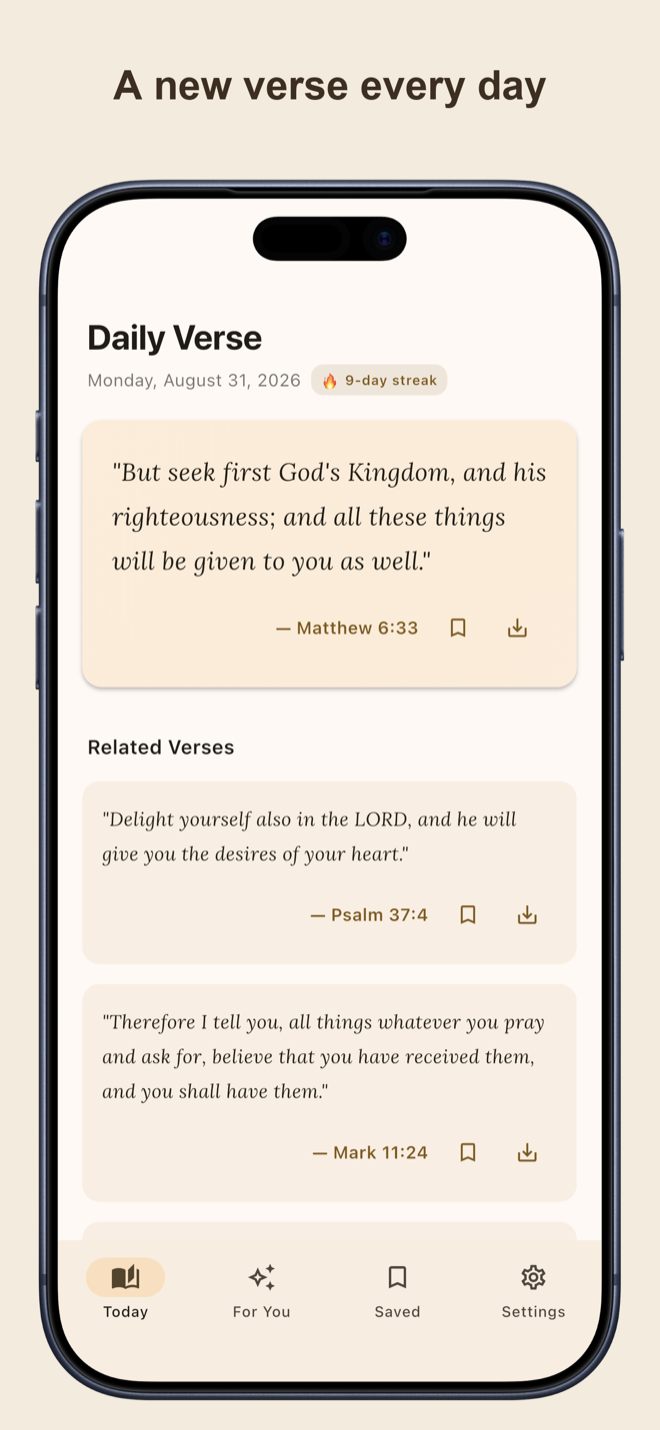
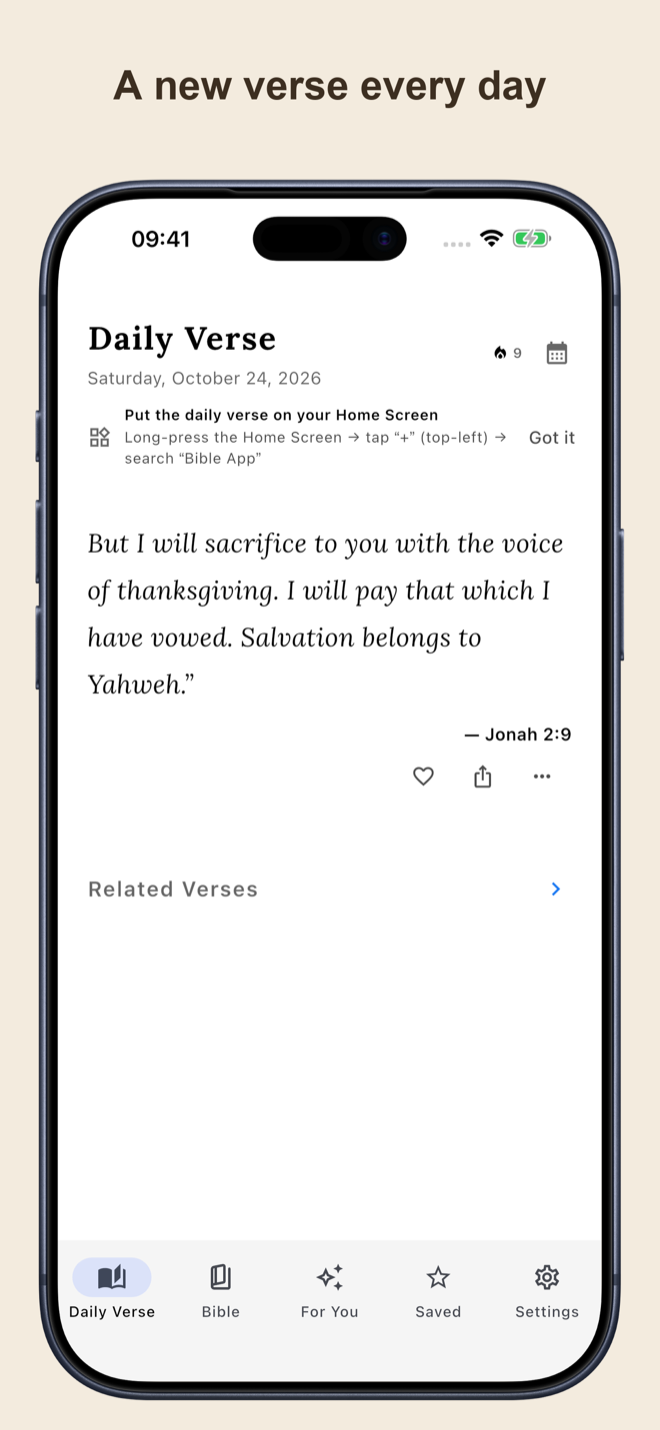
对外内容跟上 1.0.2:四页旧名(Bible Reply/圣经有云)全量换新名(Bible App: AI Search & Chat/中文圣经:AI查经、读经、祷告);营销页换 10-08 晨光十字图标+10-24 九张三语截图(en/zh 各 9,读经画面上页)+lazy load;trust 文案对齐隐私政策新口径(无第三方分析/圣经含 KJV);support 免费清单补阅读器

diff --git a/app.html b/app.html
@@ -3,7 +3,7 @@
 <head>
     <meta charset="UTF-8">
     <meta name="viewport" content="width=device-width, initial-scale=1.0">
-    <title>Bible Reply &amp; Daily Study — Daily Bible verse &amp; AI devotional</title>
+    <title>Bible App: AI Search &amp; Chat — Daily Bible verse &amp; AI devotional</title>
     <style>
         * { margin: 0; padding: 0; box-sizing: border-box; }
         body { font-family: -apple-system, BlinkMacSystemFont, 'Segoe UI', Roboto, sans-serif; color: #333; line-height: 1.7; background: #faf8f5; }
@@ -44,9 +44,9 @@
 
     <!-- ① Hero (copy: onboarding welcome page slogans) -->
     <div class="hero">
-      <img class="app-icon" src="img/app_icon.png" alt="Bible Reply app icon">
+      <img class="app-icon" src="img/app_icon.png" alt="Bible App: AI Search & Chat app icon">
       <div>
-        <h1>Bible Reply &amp; Daily Study</h1>
+        <h1>Bible App: AI Search &amp; Chat</h1>
         <p class="tagline">Ask, and the Bible may answer.</p>
         <p class="sub">Let Scripture meet you every day.</p>
       </div>
@@ -54,8 +54,14 @@
     <a class="cta" href="https://apps.apple.com/app/id6781559150">⬇ Free Download · 7-Day AI Devotional Trial</a>
     <div class="shots">
         <img src="img/en_01_today.png" alt="Today's verse">
-        <img src="img/en_02_for_you.png" alt="Write what's on your mind">
-        <img src="img/en_03_devotional_result.png" alt="A complete devotional">
+        <img src="img/en_02_reader.png" alt="The whole-Bible reader" loading="lazy">
+        <img src="img/en_03_for_you.png" alt="Write what's on your mind" loading="lazy">
+        <img src="img/en_04_devotional_result.png" alt="A complete devotional" loading="lazy">
+        <img src="img/en_05_verse_share.png" alt="Share a verse" loading="lazy">
+        <img src="img/en_06_devotional_share.png" alt="Share a devotional" loading="lazy">
+        <img src="img/en_07_saved.png" alt="Saved verses" loading="lazy">
+        <img src="img/en_08_settings.png" alt="Settings" loading="lazy">
+        <img src="img/en_09_today_dark.png" alt="Today, in dark mode" loading="lazy">
     </div>
     <video controls preload="none" poster="img/en_01_today.png">
         <source src="preview_en.m4v" type="video/mp4">
@@ -73,8 +79,8 @@
     <!-- ④ Trust -->
     <h2>Built to be trusted</h2>
     <div class="card">
-        <p><strong>Privacy-first by design.</strong> No ads, no analytics SDKs, no trackers. Sign-in is optional and uses an anonymous identifier — never your email or name. AI input is processed in the EU and kept only in your deletable devotional history. See the <a href="./">Privacy Policy</a>.</p>
-        <p><strong>AI never fabricates scripture.</strong> Verse text is always looked up from the built-in public-domain Bible (CUV 1919 + WEB, 31,091 verses) — never recalled from AI memory.</p>
+        <p><strong>Privacy-first by design.</strong> No ads, no third-party analytics, no trackers. Sign-in is optional and uses an anonymous identifier — never your email or name. AI input is processed in the EU and kept only in your deletable devotional history. See the <a href="./">Privacy Policy</a>.</p>
+        <p><strong>AI never fabricates scripture.</strong> Verse text is always looked up from the built-in public-domain Bible (CUV 1919 + WEB + KJV, 31,091 verses) — never recalled from AI memory.</p>
         <p><strong>Crisis-safe.</strong> If you share thoughts of self-harm, the app responds with vetted help resources instead of generated content.</p>
     </div>
 
@@ -115,9 +121,9 @@
     </div>
 
     <div class="hero" id="zh">
-      <img class="app-icon" src="img/app_icon.png" alt="圣经有云 App 图标">
+      <img class="app-icon" src="img/app_icon.png" alt="中文圣经 App 图标">
       <div>
-        <h2 style="border-bottom: none; margin-top: 0;">中文介绍 · 圣经有云-每日灵修</h2>
+        <h2 style="border-bottom: none; margin-top: 0;">中文介绍 · 中文圣经：AI查经、读经、祷告</h2>
         <p class="tagline">你的问题，圣经里或许有答案。</p>
         <p class="sub">把圣经，放进你的每一天。</p>
       </div>
@@ -125,8 +131,14 @@
     <a class="cta" href="https://apps.apple.com/app/id6781559150">⬇ 免费下载 · 7 天试用 AI 灵修</a>
     <div class="shots">
         <img src="img/zh_01_today.png" alt="今日经文">
-        <img src="img/zh_02_for_you.png" alt="写下近况">
-        <img src="img/zh_03_devotional_result.png" alt="完整灵修">
+        <img src="img/zh_02_reader.png" alt="整本圣经阅读器" loading="lazy">
+        <img src="img/zh_03_for_you.png" alt="写下近况" loading="lazy">
+        <img src="img/zh_04_devotional_result.png" alt="完整灵修" loading="lazy">
+        <img src="img/zh_05_verse_share.png" alt="分享经文" loading="lazy">
+        <img src="img/zh_06_devotional_share.png" alt="分享灵修" loading="lazy">
+        <img src="img/zh_07_saved.png" alt="经文收藏" loading="lazy">
+        <img src="img/zh_08_settings.png" alt="设置" loading="lazy">
+        <img src="img/zh_09_today_dark.png" alt="今日（深色模式）" loading="lazy">
     </div>
     <video controls preload="none" poster="img/zh_01_today.png">
         <source src="preview_zh.m4v" type="video/mp4">
@@ -142,8 +154,8 @@
 
     <h2>值得托付</h2>
     <div class="card">
-        <p><strong>隐私优先。</strong>无广告、无分析 SDK、无追踪。登录可选,且只使用匿名标识——绝不需要你的邮箱或姓名。AI 输入在欧盟处理;仅保存于你账号下可随时删除的灵修历史。详见<a href="./">隐私政策</a>。</p>
-        <p><strong>AI 不伪造经文。</strong>经文正文永远由内置的公有领域圣经(和合本 1919 + 英文 WEB,31,091 节)按出处取出,绝不靠 AI 记忆复述。</p>
+        <p><strong>隐私优先。</strong>无广告、无第三方分析、无追踪。登录可选,且只使用匿名标识——绝不需要你的邮箱或姓名。AI 输入在欧盟处理;仅保存于你账号下可随时删除的灵修历史。详见<a href="./">隐私政策</a>。</p>
+        <p><strong>AI 不伪造经文。</strong>经文正文永远由内置的公有领域圣经(和合本 1919 + 英文 WEB + KJV,31,091 节)按出处取出,绝不靠 AI 记忆复述。</p>
         <p><strong>危机安全。</strong>若你写下自伤的念头,App 会回应经过审核的帮助资源,而不是生成内容。</p>
     </div>
 

diff --git a/support.html b/support.html
@@ -3,7 +3,7 @@
 <head>
     <meta charset="UTF-8">
     <meta name="viewport" content="width=device-width, initial-scale=1.0">
-    <title>Bible Reply - Support</title>
+    <title>Bible App: AI Search &amp; Chat - Support</title>
     <style>
         * { margin: 0; padding: 0; box-sizing: border-box; }
         body { font-family: -apple-system, BlinkMacSystemFont, 'Segoe UI', Roboto, sans-serif; color: #333; line-height: 1.7; background: #faf8f5; }
@@ -21,7 +21,7 @@
 </head>
 <body>
 <div class="container">
-    <h1>Bible Reply — Support · 支持中心</h1>
+    <h1>Bible App: AI Search &amp; Chat — Support · 支持中心</h1>
     <p class="lang">English below · <a href="#zh">中文完整版见下方</a></p>
 
     <!-- ==================== English (complete, standalone) ==================== -->
@@ -39,12 +39,12 @@
         <li><strong>How am I billed?</strong> Your subscription auto-renews at the selected plan unless you cancel at least 24 hours before the current period ends.</li>
         <li><strong>How do I cancel?</strong> Subscriptions are managed by Apple: device Settings → [your name] → Subscriptions, or the App Store app → profile → Subscriptions. Cancel anytime — it takes effect from the next period.</li>
         <li><strong>Does it work on a new device?</strong> Yes. Your subscription is tied to your Apple ID — open the app on the new device and tap "Restore Purchases" (app Settings → Subscription → Restore Purchases, or the Restore link at the bottom of the paywall).</li>
-        <li><strong>Can I keep using it without subscribing?</strong> Yes. The daily verse, home widget, and bookmarks are free forever, no subscription needed.</li>
+        <li><strong>Can I keep using it without subscribing?</strong> Yes. The daily verse, the whole-Bible reader with read-aloud, home widget, and bookmarks are free forever, no subscription needed.</li>
     </ul>
 
     <h3>App &amp; privacy</h3>
     <ul>
-        <li><strong>Can the AI make up or distort scripture?</strong> No. The AI only picks the verse reference and writes the reflection and prayer; the verse text itself is always looked up from the bundled public-domain Bible (Chinese Union Version 1919 + World English Bible, 31,091 verses), so scripture cannot be fabricated. Devotionals are for encouragement only, not authoritative teaching.</li>
+        <li><strong>Can the AI make up or distort scripture?</strong> No. The AI only picks the verse reference and writes the reflection and prayer; the verse text itself is always looked up from the bundled public-domain Bible (Chinese Union Version 1919 + World English Bible + KJV, 31,091 verses), so scripture cannot be fabricated. Devotionals are for encouragement only, not authoritative teaching.</li>
         <li><strong>What happens to what I write?</strong> Your input is used solely to generate that devotional — never for AI training. It lives only in your in-app devotional history and can be deleted anytime.</li>
         <li><strong>What if I hit the 30/day limit?</strong> Generation pauses for the rest of the day and resumes the next day. 30/day is far beyond typical use.</li>
         <li><strong>Revoke AI data-use consent</strong> — Open the app → Settings → Data &amp; Privacy → AI Data Use, then tap "Revoke Consent".</li>
@@ -75,12 +75,12 @@
         <li><strong>订阅如何扣费？</strong> 订阅按所选方案从你的 Apple ID 自动续费，除非在当前周期结束前至少 24 小时取消。</li>
         <li><strong>如何取消？</strong> 订阅由 Apple 管理：设备「设置 → 你的姓名 → 订阅」，或 App Store → 头像 → 订阅。随时取消，下一周期起生效。</li>
         <li><strong>换设备还能用吗？</strong> 可以。订阅绑定你的 Apple ID，在新设备打开 App，点「恢复购买」（App 设置 → 订阅 → 恢复购买，或订阅页底部的「恢复购买」链接）即可。</li>
-        <li><strong>不订阅还能用吗？</strong> 可以。每日经文、桌面小组件与经文收藏永久免费，无需订阅。</li>
+        <li><strong>不订阅还能用吗？</strong> 可以。每日经文、整本圣经阅读器（含朗读）、桌面小组件与经文收藏永久免费，无需订阅。</li>
     </ul>
 
     <h3>App 与隐私</h3>
     <ul>
-        <li><strong>AI 会不会编造或曲解经文？</strong> 不会。AI 只选出经文出处并撰写解读与祷告；经文正文永远由内置的公有领域圣经（和合本 1919 + 英文 WEB，31,091 节）按出处取出，AI 无法伪造经文。灵修内容仅供鼓励参考，不构成权威解经。</li>
+        <li><strong>AI 会不会编造或曲解经文？</strong> 不会。AI 只选出经文出处并撰写解读与祷告；经文正文永远由内置的公有领域圣经（和合本 1919 + 英文 WEB + KJV，31,091 节）按出处取出，AI 无法伪造经文。灵修内容仅供鼓励参考，不构成权威解经。</li>
         <li><strong>我写下的心事会被如何处理？</strong> 你的输入仅用于为你生成当次灵修，不用于 AI 训练；只保存在你 App 内的灵修历史中，可随时删除。</li>
         <li><strong>每天最多 30 次，用完了怎么办？</strong> 当天到达上限后暂停生成，次日自动恢复。30 次/天远超日常所需。</li>
         <li><strong>撤回 AI 数据使用同意</strong>：打开 App → 设置 → 数据与隐私 → AI 数据使用，点「撤回同意」。</li>

diff --git a/terms.html b/terms.html
@@ -22,11 +22,11 @@
     <p class="updated">Last updated: August 28, 2026</p>
 
     <h2>1. Acceptance of Terms &amp; Eligibility</h2>
-    <p>By downloading and using Bible Reply ("the App"), you agree to these Terms of Service. If you do not agree, please do not use the App.</p>
+    <p>By downloading and using Bible App: AI Search &amp; Chat ("the App"), you agree to these Terms of Service. If you do not agree, please do not use the App.</p>
     <p>You must be at least 18 years old to use the App. The App is not directed to minors, and we do not knowingly collect personal data from anyone under 18; if you believe anyone under 18 has provided personal data, contact us and we will delete it.</p>
 
     <h2>2. Description of Service</h2>
-    <p>Bible Reply provides daily Bible verses and AI-generated devotional content for personal encouragement and spiritual reflection. The App is available in English and Chinese.</p>
+    <p>Bible App: AI Search &amp; Chat provides daily Bible verses and AI-generated devotional content for personal encouragement and spiritual reflection. The App is available in English and Chinese (Simplified and Traditional).</p>
 
     <h2>3. AI-Generated Content</h2>
     <ul>
@@ -50,7 +50,7 @@
 
     <h2>5. Intellectual Property</h2>
     <ul>
-        <li>The App's design, code, and original content are owned by Bible Reply.</li>
+        <li>The App's design, code, and original content are owned by Bible App: AI Search &amp; Chat.</li>
         <li>Bible verses are sourced from public domain translations (World English Bible and Chinese Union Version 1919).</li>
         <li>You may share devotional content for personal, non-commercial purposes.</li>
     </ul>
@@ -78,10 +78,10 @@
     <p>The App is provided "as is" and "as available," without warranties of any kind, either express or implied. We do not warrant that the App will be uninterrupted, error-free, secure, or free of harmful components, or that any defects will be corrected. No advice or information obtained from the App creates any warranty not expressly stated in these Terms.</p>
 
     <h2>11. Limitation of Liability</h2>
-    <p>To the fullest extent permitted by law, Bible Reply shall not be liable for any indirect, incidental, special, consequential, or punitive damages arising from your use of, or inability to use, the App. Our total aggregate liability for any claim arising out of or relating to these Terms or the App shall not exceed the greater of: (a) the amounts you have paid us for the App in the twelve (12) months preceding the claim; or (b) USD $100. The foregoing limitations apply even if a remedy fails of its essential purpose, to the extent permitted by law.</p>
+    <p>To the fullest extent permitted by law, Bible App: AI Search &amp; Chat shall not be liable for any indirect, incidental, special, consequential, or punitive damages arising from your use of, or inability to use, the App. Our total aggregate liability for any claim arising out of or relating to these Terms or the App shall not exceed the greater of: (a) the amounts you have paid us for the App in the twelve (12) months preceding the claim; or (b) USD $100. The foregoing limitations apply even if a remedy fails of its essential purpose, to the extent permitted by law.</p>
 
     <h2>12. Indemnity</h2>
-    <p>To the extent permitted by law, you agree to defend, indemnify, and hold Bible Reply harmless from and against any claims, damages, losses, liabilities, and expenses (including reasonable legal fees) arising out of or relating to your User Content, your violation of these Terms, or your misuse of the App.</p>
+    <p>To the extent permitted by law, you agree to defend, indemnify, and hold Bible App: AI Search &amp; Chat harmless from and against any claims, damages, losses, liabilities, and expenses (including reasonable legal fees) arising out of or relating to your User Content, your violation of these Terms, or your misuse of the App.</p>
 
     <h2>13. Reporting Inappropriate Content &amp; Copyright</h2>
     <p>If you believe any content available through the App is unlawful, harmful, or otherwise objectionable, or that it infringes your intellectual-property rights, you may report it to us at jidutu093@gmail.com. For U.S. copyright claims, you may submit a Digital Millennium Copyright Act (DMCA) notice to the same email. We will review reports in good faith and take appropriate action, including removing or disabling access to reported devotional content where warranted, and will respond to valid notices without undue delay.</p>

diff --git a/index.html b/index.html
@@ -3,7 +3,7 @@
 <head>
     <meta charset="UTF-8">
     <meta name="viewport" content="width=device-width, initial-scale=1.0">
-    <title>Bible Reply - Privacy Policy</title>
+    <title>Bible App: AI Search &amp; Chat - Privacy Policy</title>
     <style>
         * { margin: 0; padding: 0; box-sizing: border-box; }
         body { font-family: -apple-system, BlinkMacSystemFont, 'Segoe UI', Roboto, sans-serif; color: #333; line-height: 1.7; background: #faf8f5; }
@@ -18,11 +18,11 @@
 </head>
 <body>
 <div class="container">
-    <h1>Bible Reply Privacy Policy</h1>
+    <h1>Bible App: AI Search &amp; Chat — Privacy Policy</h1>
     <p class="updated">Last updated: October 24, 2026</p>
 
     <h2>1. Introduction</h2>
-    <p>Bible Reply ("we", "our", "us") is committed to protecting your privacy. This Privacy Policy explains how we handle information when you use our mobile application.</p>
+    <p>Bible App: AI Search &amp; Chat ("we", "our", "us") is committed to protecting your privacy. This Privacy Policy explains how we handle information when you use our mobile application.</p>
 
     <h2>2. Information We Collect and Process</h2>
     <p>We design the app to handle as little data as possible. The daily verse and the home-screen widget work <strong>without any account</strong>; saving bookmarks and using the AI devotional feature use <strong>Sign in with Apple</strong> to keep your content under a private account (see below). We do <strong>not</strong> collect your name, email, phone number, or contact details. Specifically:</p>
@@ -104,11 +104,11 @@
 
     <hr style="margin:48px 0;border:none;border-top:1px solid #e8e0d6;">
 
-    <h1>圣经有云 隐私政策(简体中文)</h1>
+    <h1>中文圣经：AI查经、读经、祷告 隐私政策(简体中文)</h1>
     <p class="updated">最后更新:2026年10月24日</p>
 
     <h2>1. 引言</h2>
-    <p>圣经有云("我们")致力于保护您的隐私。本隐私政策说明您使用本移动应用时,我们如何处理信息。</p>
+    <p>中文圣经：AI查经、读经、祷告("我们")致力于保护您的隐私。本隐私政策说明您使用本移动应用时,我们如何处理信息。</p>
 
     <h2>2. 我们收集和处理的信息</h2>
     <p>本应用在设计上尽可能少地处理数据。每日经文与主屏小组件<strong>无需任何账号</strong>即可使用;收藏经文与 AI 灵修功能使用 <strong>Sign in with Apple(通过 Apple 登录)</strong>,将您的内容保存在专属账号下(见下文)。我们<strong>不</strong>收集您的姓名、电子邮件、电话号码或联系方式。具体而言:</p>
